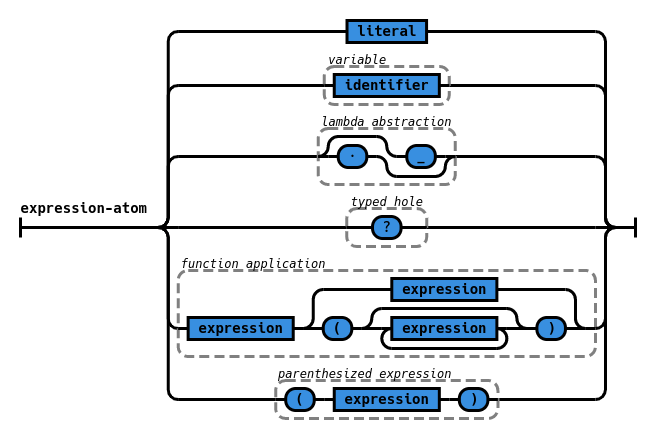
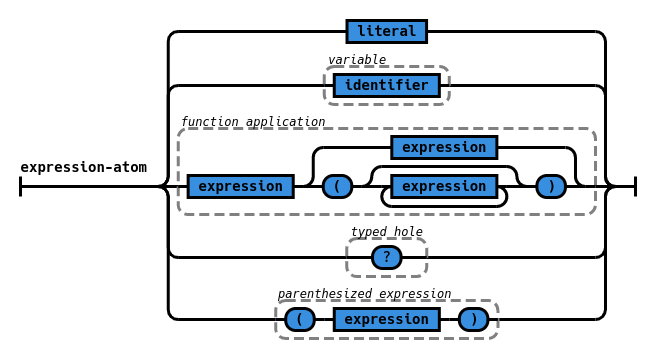
describe wildcard abstractions and how to convert them to lambda abstractions

Changed region(s): [[0.0305, 0.0307, 0.9771, 0.9832]]

diff --git a/part1-zilch.tex b/part1-zilch.tex
@@ -199,6 +199,17 @@ For example, both following alternatives are equivalent (because the lambda abst
   def mapper(y: u64)(x: u64): u64 := x + y * 2
   def f(y: u64, l: list u64): list u64 := map(mapper y, l)
 \end{minted}
+\vspace*{\baselineskip}
+
+\noindent Note that lambda abstractions cannot be recursive on their own, they need to be bound using a \texttt{def} declaration.
+
+There is also an alternative grammar for lambda abstractions, using wildcards abstractions.
+Sometimes, you have to write \verb|reduce(fn(acc, e) acc + e, 0, list)|, but it would be far more pleasant if it could be written as in Haskell, i.e. \verb|reduce (+) 0 list|.
+\verb|(+)| cannot unfortunately be written as is in Zilch.
+This is why there are wildcard abstractions: it allows writing \verb|reduce(_ + _, 0, list)| (note the extra spaces around the operator, even though \verb|_+_| would have also worked just fine here) which makes it cleaner looking.
+\verb|_ + _| is really syntactic sugar for \texttt{fn($x_0$) fn($x_1$) $x_0$ + $x_1$}.
+
+A simple rule to convert wildcard abstractions to explicit lambda abstractions is the following: for each wildcard $\cdot_i$ in an expression \verb|e| (assuming from the left to the right), assign an unique identifier $u_i$ and replace the wildcard with it (also increment $i$). If $i \neq 0$ at the end, then replace \verb|e| with the lambda abstraction \texttt{fn($u_0$, \ldots, $u_i$) e[$\cdot_0$\textbackslash$u_0$, \ldots, $\cdot_i$\textbackslash$u_i$]}.
 
 \begin{figure}[H]
   \centering

diff --git a/railroad-diagrams.py b/railroad-diagrams.py
@@ -875,17 +875,24 @@ def zilch_character():
 	return mk_diagram2('character', inner)
 
 def zilch_lambda():
-	inner = Sequence(
-		Terminal('fn'),
-		Sequence(
-			Terminal('('),
-			ZeroOrMore(
-				NonTerminal('identifier'),
-				Terminal(',')
-			),
-			Terminal(')')
+	inner = Choice(
+		1,
+		HorizontalChoice(
+			Terminal('·'),
+			Terminal('_')
 		),
-		NonTerminal('expression')
+		Sequence(
+			Terminal('fn'),
+			Sequence(
+				Terminal('('),
+				ZeroOrMore(
+					NonTerminal('identifier'),
+					Terminal(',')
+				),
+				Terminal(')')
+			),
+			NonTerminal('expression')
+		)
 	)
 
 	return mk_diagram2('lambda', inner)
@@ -975,22 +982,11 @@ def zilch_record():
 
 def zilch_basicexpr():
 	inner = Choice(
-		3,
+		2,
 		NonTerminal('literal'),
 		Group(
 			NonTerminal('identifier'),
 			'variable'
-		),
-		Group(
-			HorizontalChoice(
-				Terminal('·'),
-				Terminal('_')
-			),
-			'lambda abstraction'
-		),
-		Group(
-			Terminal('?'),
-			'typed hole'
 		),
 		Group(
 			Sequence(
@@ -1010,6 +1006,10 @@ def zilch_basicexpr():
 			'function application'
 		),
 		Group(
+			Terminal('?'),
+			'typed hole'
+		),
+		Group(
 			Sequence(
 				Terminal('('),
 				NonTerminal('expression'),
@@ -1021,4 +1021,4 @@ def zilch_basicexpr():
 
 	return mk_diagram2('expression-atom', inner)
 
-zilch_lambda().writeSvg(sys.stdout.write)
+zilch_basicexpr().writeSvg(sys.stdout.write)
